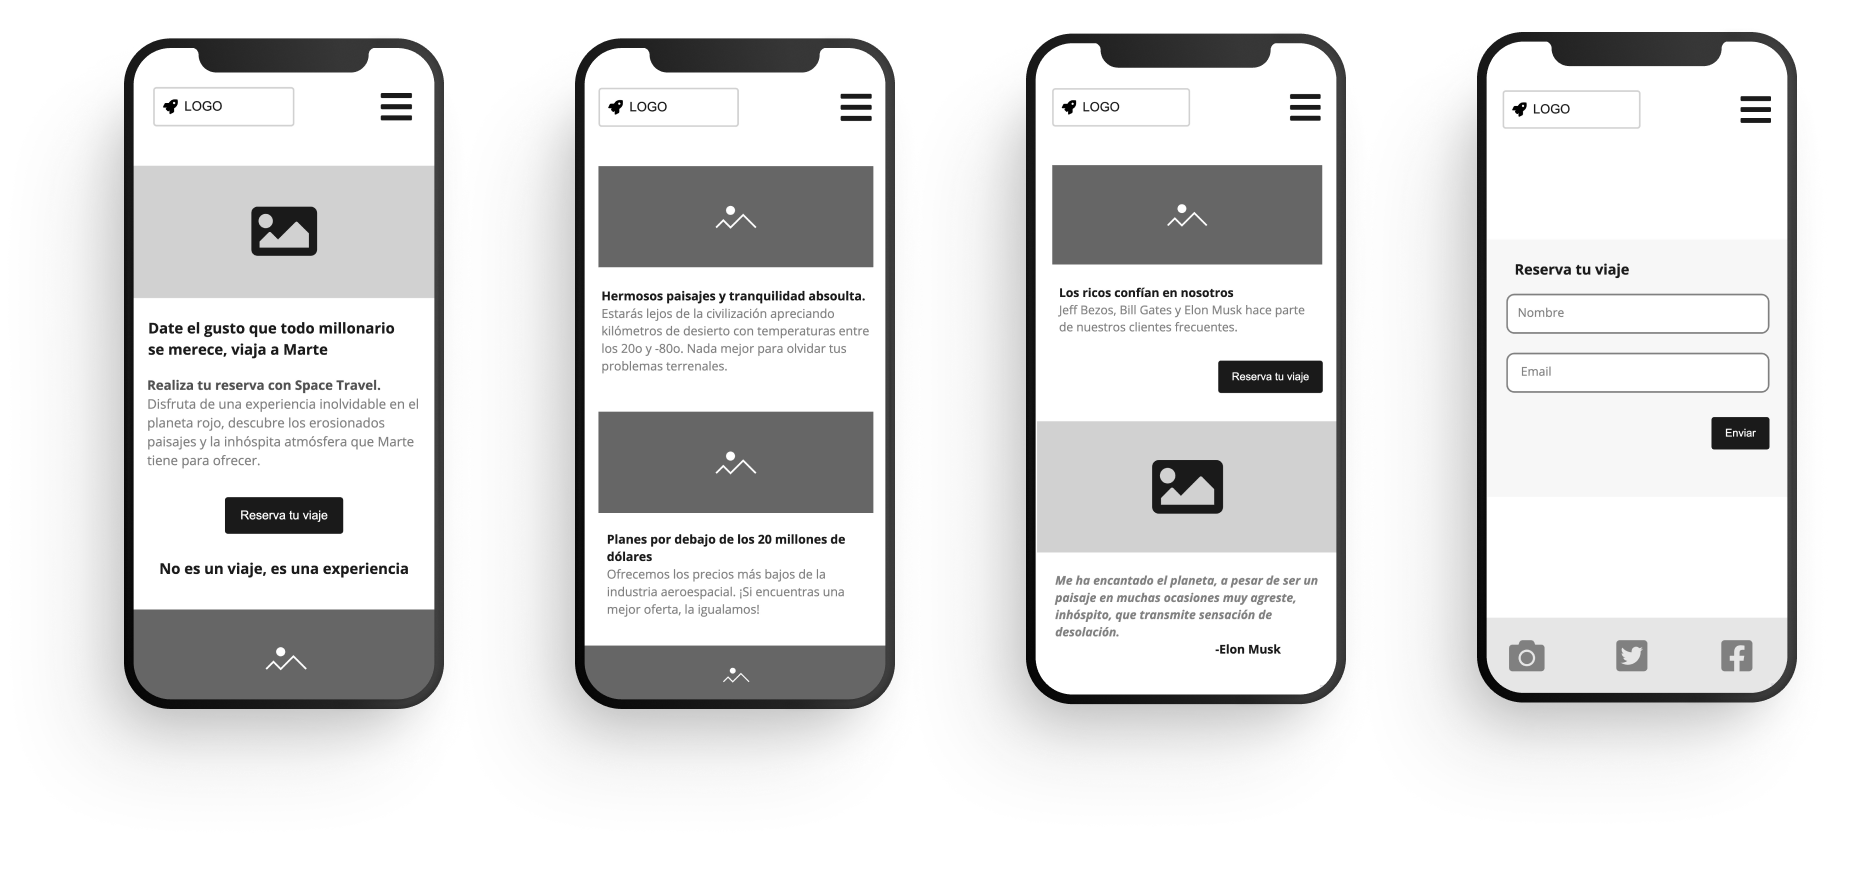
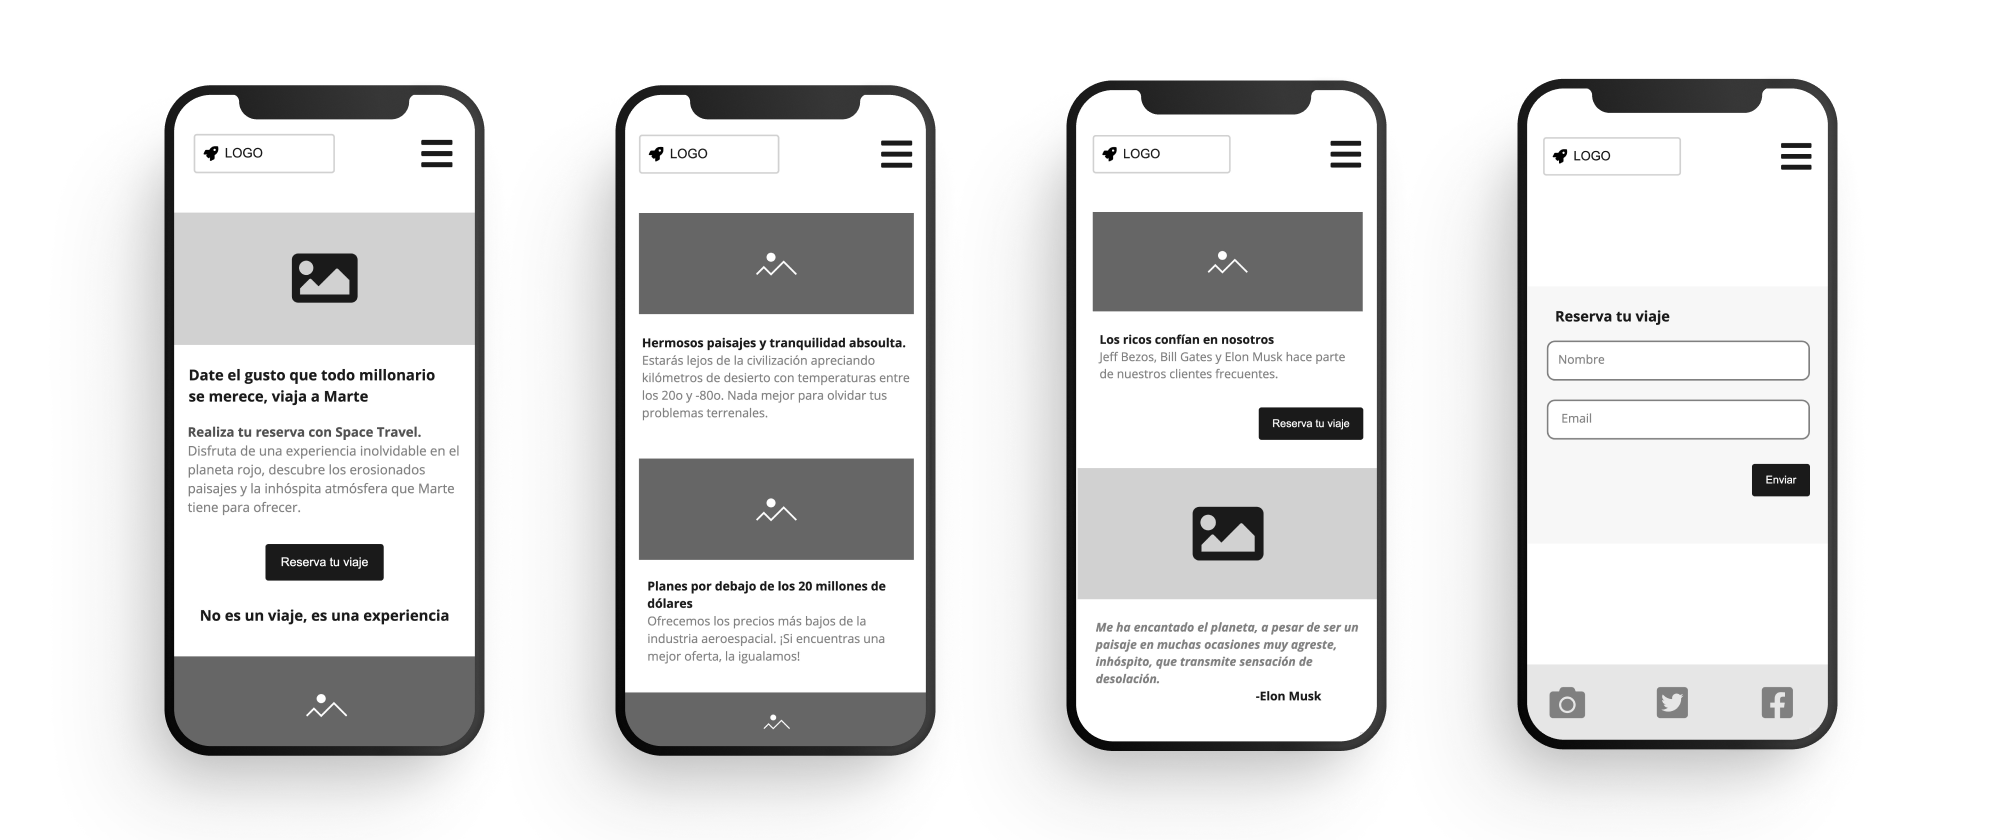
responsive images update

diff --git a/space-travel/index.html b/space-travel/index.html
@@ -12,7 +12,7 @@
         <link href="../assets/css/styles.css" rel="stylesheet">
     </head>
     <header class="header">
-        <div class="header-container wrapper">
+        <div class="header-container wrapper wrapper-min">
             <div class="logo logo-min">
             <div>KARIN DAHLSTEDT</div>
         </div>
@@ -90,9 +90,15 @@
     After doing some sketches I developed the high-fi wireframes in Miro in order to add the texts and more details. The objective was to test different user flows while still maintain the focus on the content, usability, and structure.</p>
 </div>
     <div class="wrapper wrapper-min">
-<div class="project__img">
+        <div class="project__img">
+            <img src="../assets/img/space-travel-wireframes01.png">
+            <img src="../assets/img/space-travel-wireframes02.png">
+        </div>
+<div class="project__img-min">
     <img src="../assets/img/space-travel-wireframes.png">
 </div>
+</div>
+<div class="wrapper wrapper__center-min">
     <h2 class="project__h">Takeaways</h2>
     <div class="takeaways">
     <ul class="project__ul">

diff --git a/assets/css/styles.css b/assets/css/styles.css
@@ -349,6 +349,11 @@ a:hover {
 margin: 4.8rem 0 4.8rem 0;
 }
 
+.project__img-min {
+display: none;  
+}
+  
+
 /* ----------------------- LISTS ------------------ */
 
 ul.project__ul {
@@ -562,7 +567,15 @@ transform: scale(1.08);
     display: block;
     margin: 6.4rem;
   }
-}
+
+  .project__img-min {
+    margin: 4.8rem 0 4.8rem 0;
+    display: block;
+    }
+
+    .project__img {
+      display: none;
+      }
 /* ----------------------- RESPONSIVE 960px END ------------------ */
 
 

diff --git a/about/index.html b/about/index.html
@@ -14,7 +14,7 @@
 
     <body>
         <header class="header">
-            <div class="header-container wrapper">
+            <div class="header-container wrapper wrapper-min">
                 <div class="logo logo-min">
                 <div>KARIN DAHLSTEDT</div>
             </div>

diff --git a/index.html b/index.html
@@ -14,7 +14,7 @@
 
     <body>
         <header class="header">
-            <div class="header-container wrapper">
+            <div class="header-container wrapper wrapper-min">
                 <div class="logo logo-min">
                 <div>KARIN DAHLSTEDT</div>
             </div>
